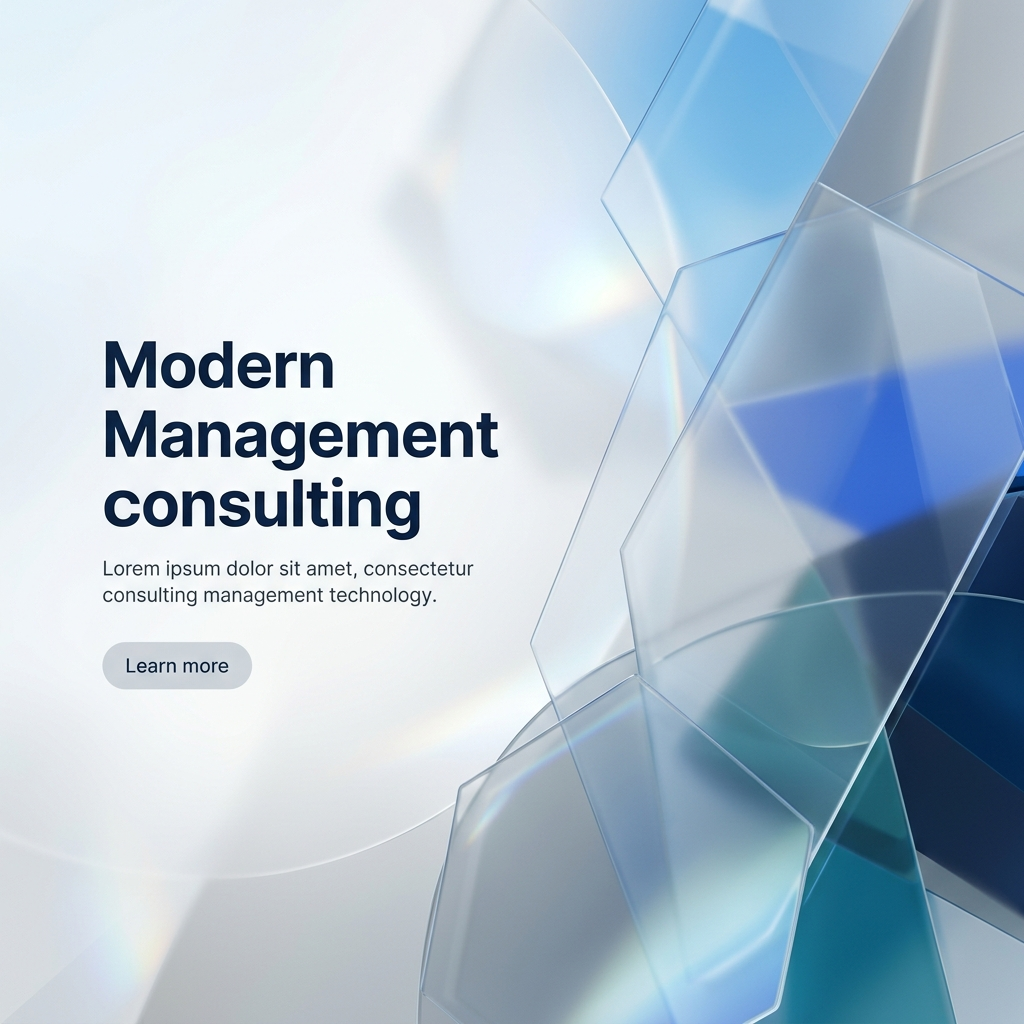
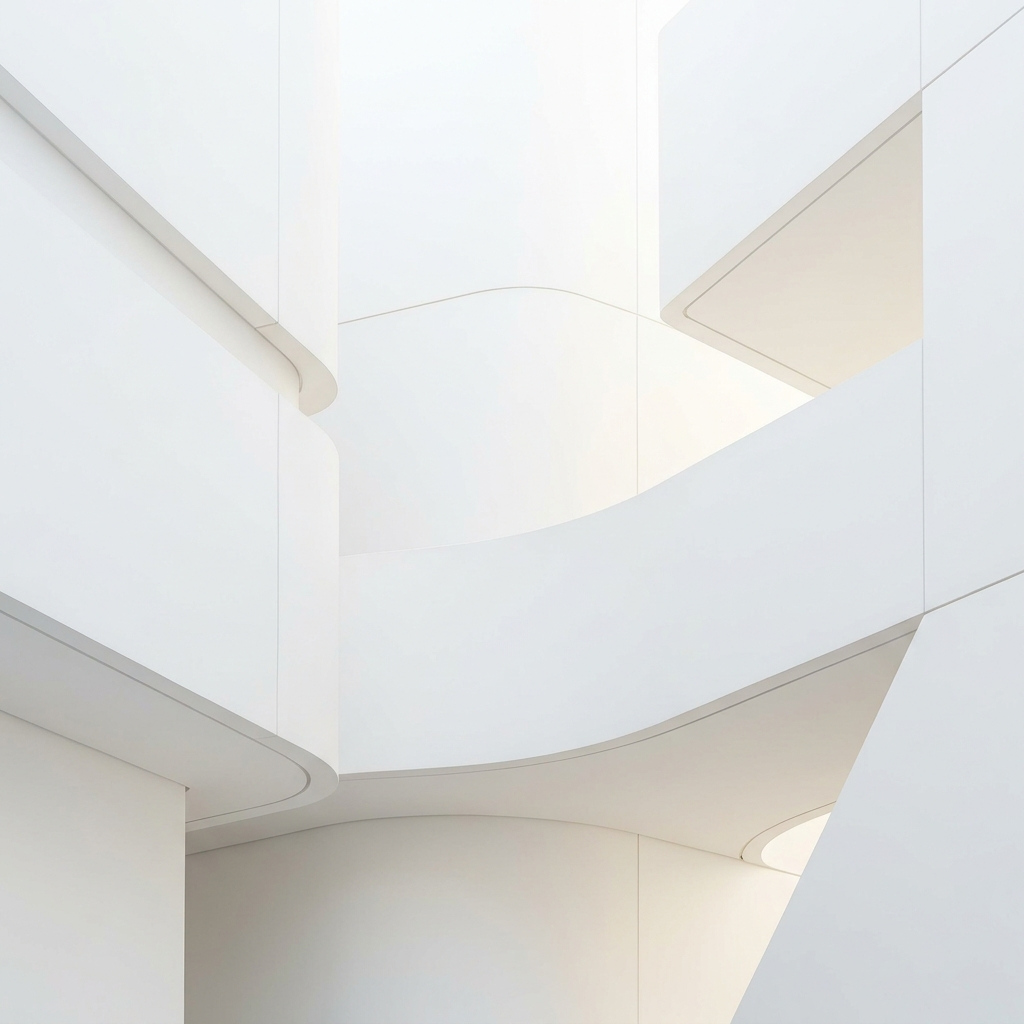
feat: content updates for services, stats, and about section

diff --git a/src/lib/constants.ts b/src/lib/constants.ts
@@ -75,8 +75,9 @@ export const SERVICES = [
     items: [
       "Outsourcing Accounting Service",
       "Monthly Accounting Supervisory",
-      "Financial Statement Compilation, Review & Analysis",
-      "Other Management Accounting Services",
+      "Financial Statement Compilation",
+      "Financial Statement Review",
+      "Financial Statement Analysis",
     ],
   },
   {
@@ -84,7 +85,7 @@ export const SERVICES = [
     icon: "Lightbulb" as const,
     items: [
       "Accounting & Management Information System Design",
-      "Accounting System Check-up",
+      "Accounting System Check Up",
     ],
   },
   {
@@ -107,7 +108,8 @@ export const INDUSTRIES = [
 ] as const;
 
 export const STATS = [
-  { value: 35, suffix: "+", label: "Years Experience" },
-  { value: 9, suffix: "", label: "Industry Sectors" },
-  { value: 3, suffix: "", label: "Core Disciplines" },
+  { value: 291, suffix: "", label: "Happy Clients" },
+  { value: 156, suffix: "", label: "Our Project" },
+  { value: 0, suffix: "", label: "Team Members" },
+  { value: 41, suffix: "", label: "Years of Experiences" },
 ] as const;

diff --git a/src/components/About.tsx b/src/components/About.tsx
@@ -53,7 +53,8 @@ export default function About() {
               className="w-full rounded-2xl object-cover shadow-md aspect-video mb-8"
             />
             <p className="text-lg leading-relaxed text-slate-600">
-              PMC works across a broad range of business disciplines to address
+              We are an expert consulting firm based in Surabaya specializing in
+              management accounting. PMC works across a broad range of business disciplines to address
               critical issues, helping clients improve key organizational
               components, leverage technology, and strengthen their market
               position. Our team of service professionals and industry-specific

diff --git a/src/components/Services.tsx b/src/components/Services.tsx
@@ -37,8 +37,7 @@ export default function Services() {
             From Ledger to Strategy
           </h2>
           <p className="mt-4 text-lg text-slate-600">
-            Comprehensive financial and management solutions designed to scale
-            with your business.
+            Indonesia can be a challenging place to do business. At PMC, our services are designed to support your business from inception through to exit and everything in between.
           </p>
         </motion.div>
 
